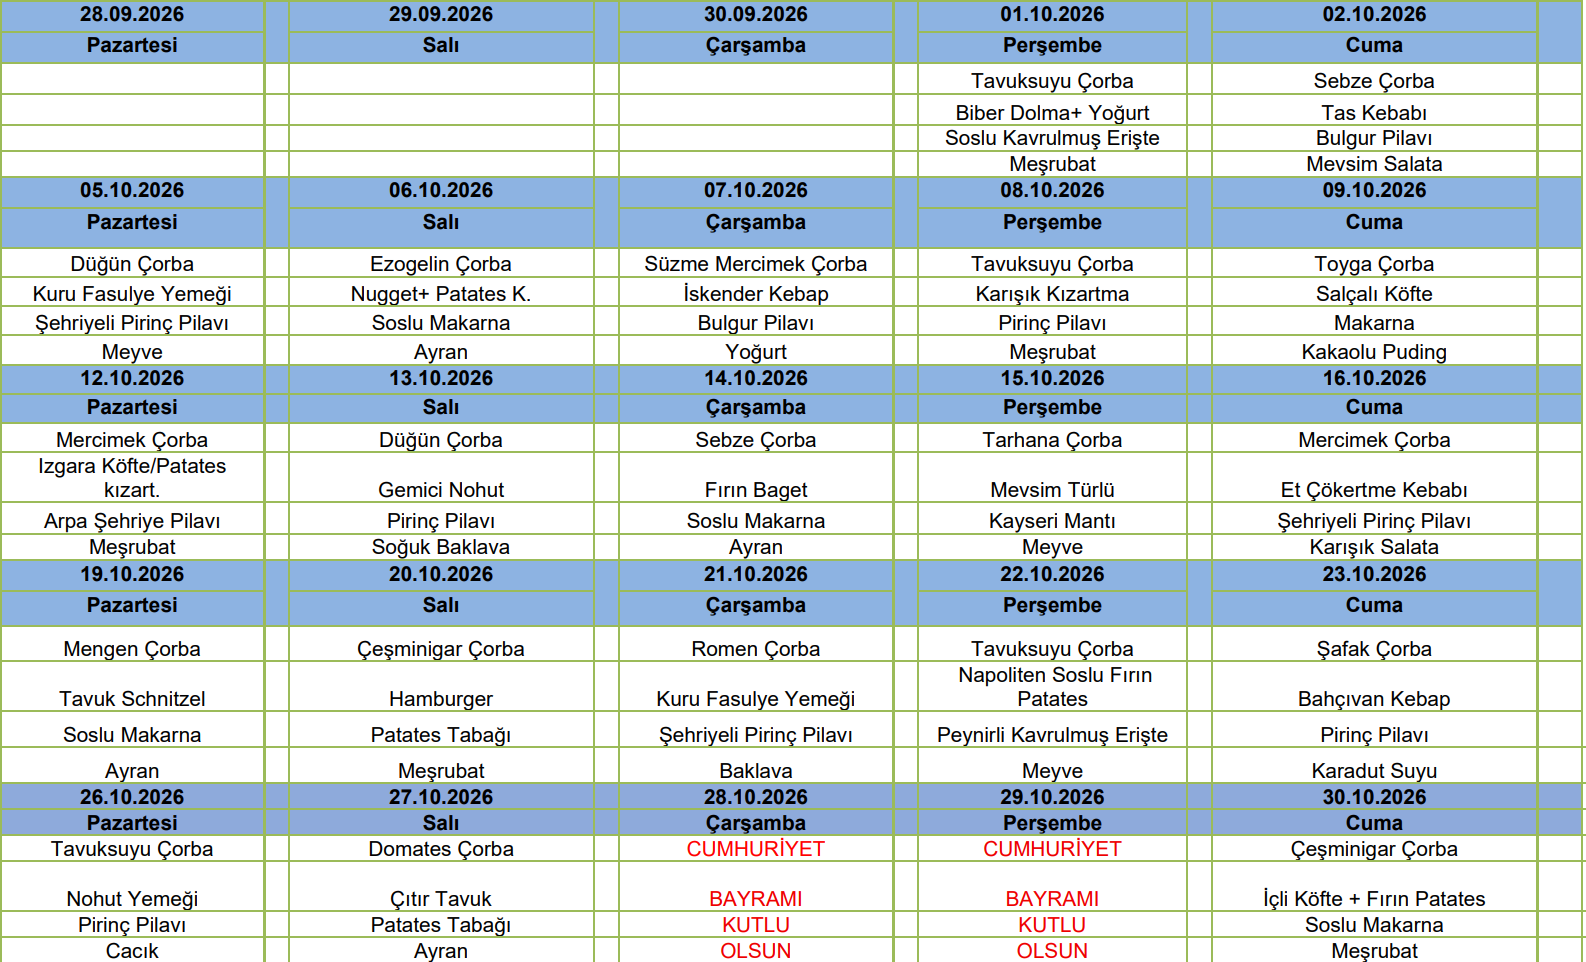
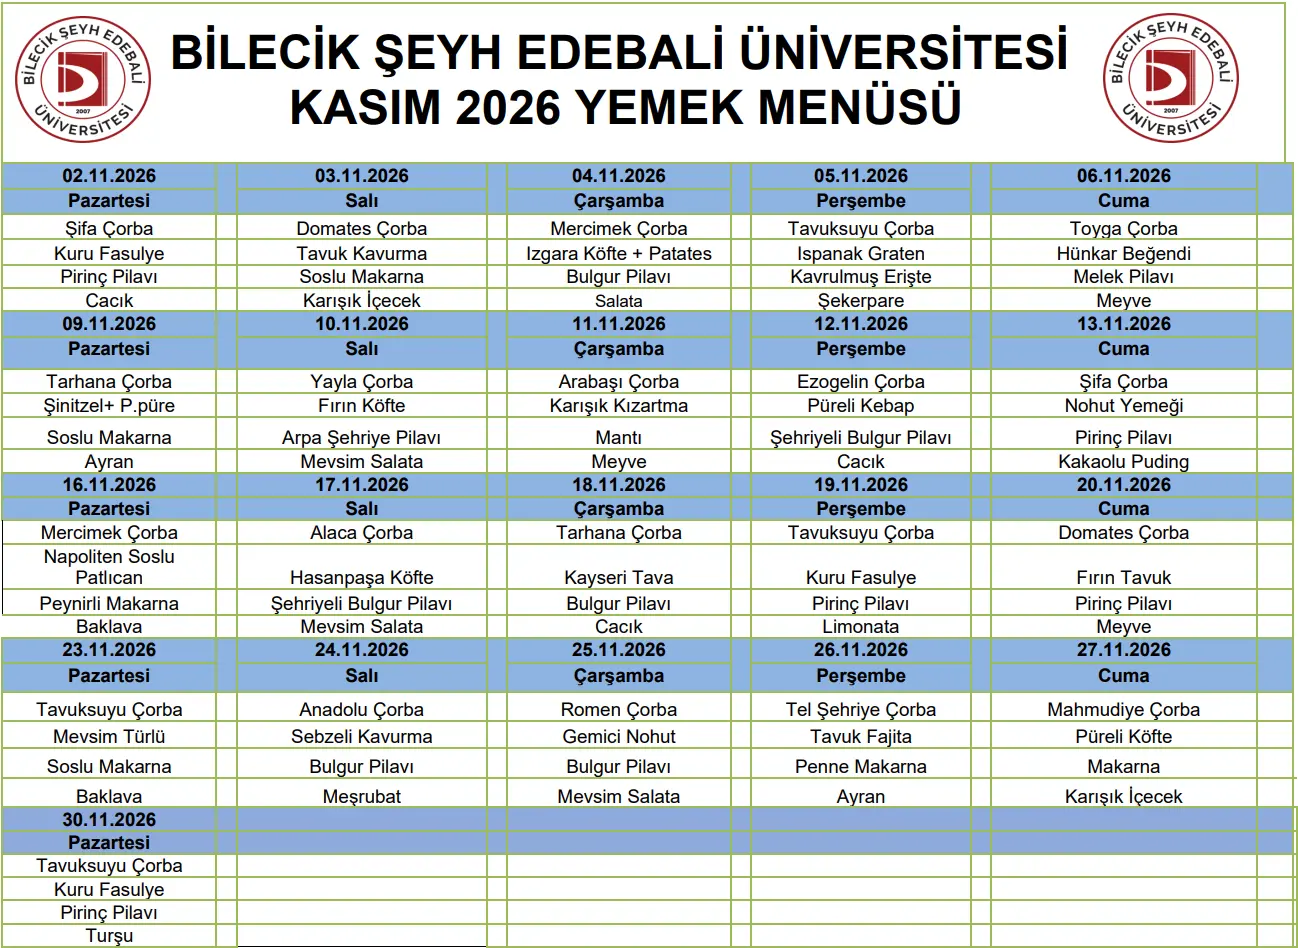
Alt sayfa görselleri webp formatına geçirildi
- docs/pages altındaki akademik takvim ve sınav programı görselleri webp formatına dönüştürüldü.
- İlgili HTML dosyalarındaki ve Service Worker önbellek listesindeki görsel uzantıları güncellendi.

diff --git a/docs/sw.js b/docs/sw.js
@@ -1,7 +1,7 @@
-// 5 Kasım 2026
+// 18 Kasım 2026
 // Furkan "Paşa" Çelik - BŞEÜ Web Portal Service Worker
 
-const CACHE_NAME = "bseu-portal-v2.4.1";
+const CACHE_NAME = "bseu-portal-v2.5.0";
 const ASSETS = [
     "./",
     "./index.html",
@@ -22,9 +22,9 @@ const ASSETS = [
     "./pages/sinav_programi2.html",
     "./pages/sinav_programi3.html",
     "./pages/yemek_listesi.html",
-    "./pages/akademik_takvim.jpg",
-    "./pages/sinav_programi1.jpg",
-    "./pages/sinav_programi2.jpg",
+    "./pages/akademik_takvim.webp",
+    "./pages/sinav_programi1.webp",
+    "./pages/sinav_programi2.webp",
     "./pages/sinav_programi3.webp",
     "./pages/yemek_listesi.webp"
 ];

diff --git a/docs/pages/sinav_programi2.html b/docs/pages/sinav_programi2.html
@@ -1,6 +1,6 @@
 <!DOCTYPE html>
 <html lang="tr">
-<!-- 6 Kasım 2026 -->
+<!-- 18 Kasım 2026 -->
 
 <head>
     <title>BM Sınav Programı 2026-2027</title>
@@ -41,7 +41,7 @@
 
     <div id="container" class="container" style="display: none;">
         <div class="image-wrapper">
-            <img id="loadImage" src="sinav_programi2.jpg" alt="BM Bahar Dönemi | Final Sınav Programı | 2026-2027"
+            <img id="loadImage" src="sinav_programi2.webp" alt="BM Bahar Dönemi | Final Sınav Programı | 2026-2027"
                 class="menu-image">
         </div>
     </div>

diff --git a/docs/pages/sinav_programi1.html b/docs/pages/sinav_programi1.html
@@ -1,6 +1,6 @@
 <!DOCTYPE html>
 <html lang="tr">
-<!-- 6 Kasım 2026 -->
+<!-- 18 Kasım 2026 -->
 
 <head>
     <title>BM Sınav Programı 2026-2027</title>
@@ -41,7 +41,7 @@
 
     <div id="container" class="container" style="display: none;">
         <div class="image-wrapper">
-            <img id="loadImage" src="sinav_programi1.jpg" alt="BM Güz Dönemi | Ara Sınav Programı | 2026-2027"
+            <img id="loadImage" src="sinav_programi1.webp" alt="BM Güz Dönemi | Ara Sınav Programı | 2026-2027"
                 class="menu-image">
         </div>
     </div>

diff --git a/docs/pages/akademik_takvim.html b/docs/pages/akademik_takvim.html
@@ -1,6 +1,6 @@
 <!DOCTYPE html>
 <html lang="tr">
-<!-- 5 Kasım 2026 -->
+<!-- 18 Kasım 2026 -->
 
 <head>
 
@@ -40,7 +40,7 @@
 
     <div id="container" class="container" style="display: none;">
         <div class="image-wrapper">
-            <img id="loadImage" src="akademik_takvim.jpg"
+            <img id="loadImage" src="akademik_takvim.webp"
                 alt="Bilecik Şeyh Edebali Üniversitesi 2026-2027 Akademik Takvim" class="menu-image">
         </div>
     </div>

diff --git a/src/sw.js b/src/sw.js
@@ -1,7 +1,7 @@
-// 5 Kasım 2026
+// 18 Kasım 2026
 // Furkan "Paşa" Çelik - BŞEÜ Web Portal Service Worker
 
-const CACHE_NAME = "bseu-portal-v2.4.1";
+const CACHE_NAME = "bseu-portal-v2.5.0";
 const ASSETS = [
     "./",
     "./index.html",

diff --git a/src/pages/akademik_takvim.html b/src/pages/akademik_takvim.html
@@ -1,6 +1,6 @@
 <!DOCTYPE html>
 <html lang="tr">
-<!-- 5 Kasım 2026 -->
+<!-- 18 Kasım 2026 -->
 
 <head>
 
